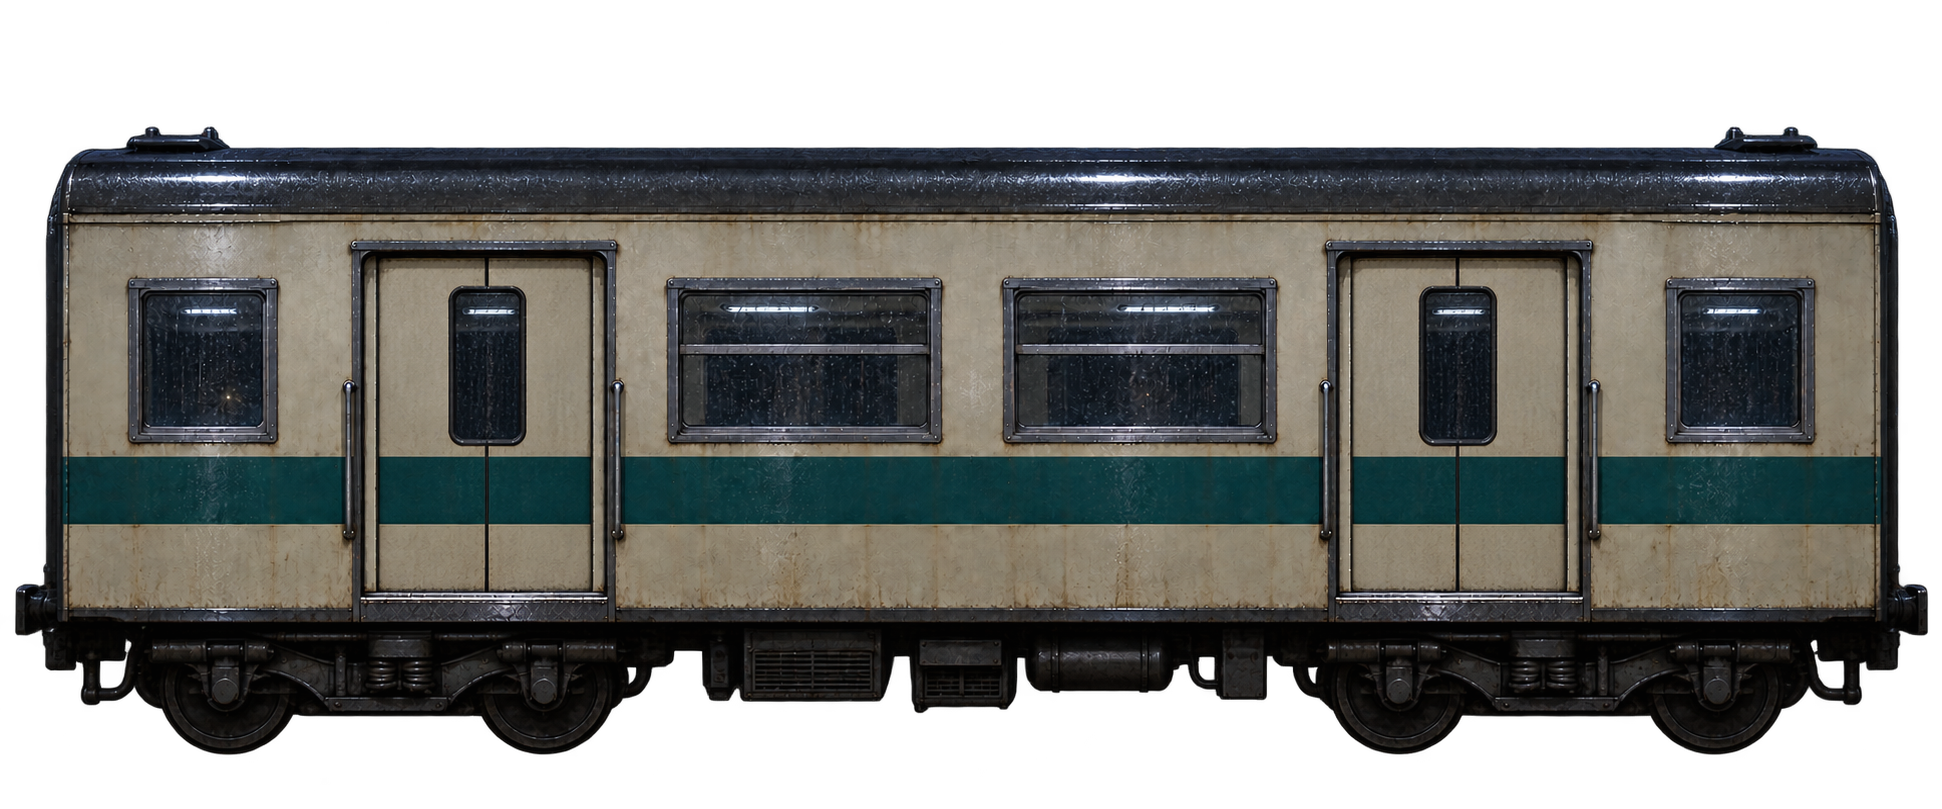
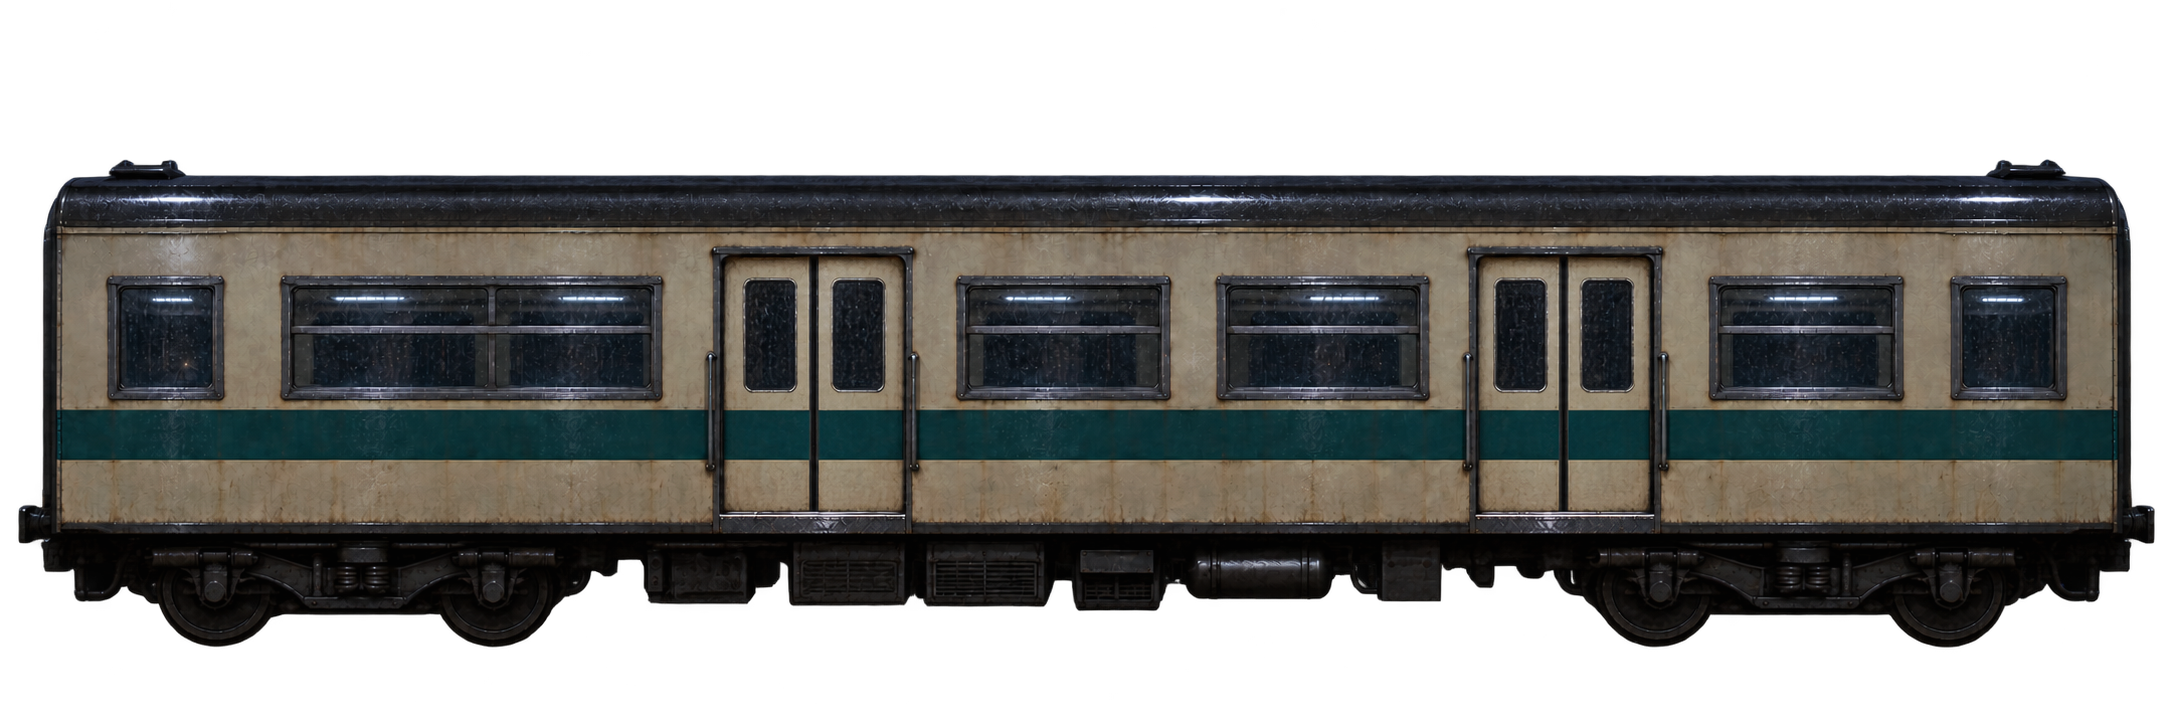
feat: 帰還列車の連結描写と持ち物画像を改善

diff --git a/src/remake/RemakeApp.tsx b/src/remake/RemakeApp.tsx
@@ -4,7 +4,8 @@ import { newState, reduce, restore, owns } from './model';
 import type { Action, Item, Room } from './model';
 import { World, availableViews } from './World';
 import type { Focus } from './World';
-import { FocusView, itemArt } from './FocusView';
+import { FocusView } from './FocusView';
+import { ItemImage } from './ItemImage';
 import { PhotoRecord } from './Photos';
 import { RecordingStrips } from './Recorder';
 import { ServiceRecordNote } from './ServiceRecords';
@@ -120,13 +121,13 @@ export default function RemakeApp() {
  <div className={'rm-stage ' + (focus === 'bag' ? 'rm-close' : '')}>{focus ? <><div className="rm-focus-backdrop" aria-hidden="true" inert>{world}</div><div className="rm-focused-scene"><FocusView focus={focus} s={s} dispatch={dispatch} say={say} selected={selected} onSelect={setSelected} close={close} inspect={inspect}/></div></> : world}</div>
  {!focus && views.length > 1 && <nav className="rm-world-nav" aria-label="周囲を見る"><button aria-label="左を見る" onClick={() => dispatch({ type: 'look', camera: (s.camera + views.length - 1) % views.length })}>‹</button><button aria-label="右を見る" onClick={() => dispatch({ type: 'look', camera: (s.camera + 1) % views.length })}>›</button></nav>}
  <div className="rm-top">{focus ? <button onClick={close} aria-label="前の場面へ戻る">〈 戻る</button> : <div><span className="rm-wordmark">帰線</span><span className="rm-area-name">{roomLabels[s.room]}</span></div>}<div><button onClick={() => setPanel('notes')}>記録</button><button onClick={() => setPanel('settings')} aria-label="設定と保存">⋯</button></div></div>
- {showSelected && <div className="rm-held-item">{itemArt[selected] && !['officeLock', 'recorder', 'ticket', 'reader'].includes(focus ?? '') && <img src={itemArt[selected]} alt={labels[selected]} draggable={false}/>}<button aria-label="選んだ持ち物を見る" onClick={() => inspect(documentFocus[selected] ?? 'item')}>見る</button></div>}
- <div className="rm-bottom"><div className="rm-inventory" aria-label="持ち物">{inv.map(item => <button key={item} className={selected === item ? 'selected' : ''} aria-pressed={selected === item} onClick={() => {
+ {showSelected && <div className="rm-held-item"><div className="rm-held-icon"><ItemImage item={selected} state={s}/></div><button aria-label="選んだ持ち物を見る" onClick={() => inspect(documentFocus[selected] ?? 'item')}>見る</button></div>}
+ <div className="rm-bottom"><div className="rm-inventory" aria-label="持ち物">{inv.map(item => <button key={item} aria-label={labels[item]} className={selected === item ? 'selected' : ''} aria-pressed={selected === item} onClick={() => {
                 if (selected === item)
                     inspect(documentFocus[item] ?? 'item');
                 else
                     setSelected(item);
-            }}>{labels[item]}</button>)}</div><button className="rm-target-toggle" aria-pressed={targets} onClick={() => setTargets(!targets)}>調べる場所</button></div>
+            }}><span className="rm-inventory-art"><ItemImage item={item} state={s}/></span><span>{labels[item]}</span></button>)}</div><button className="rm-target-toggle" aria-pressed={targets} onClick={() => setTargets(!targets)}>調べる場所</button></div>
  {message && <div className="rm-feedback" role="status">{message}</div>}
  {panel && <div ref={panelRef} className="rm-scrim" onClick={e => {
                 if (e.target === e.currentTarget)
@@ -151,6 +152,5 @@ export default function RemakeApp() {
                     }
                     e.target.value = '';
                 }}/><button onClick={() => { setS(seed()); setView({ focus: initialFocus, trail: [] }); setPanel(null); setSelected(null); }}>試作を初期状態へ戻す</button></> : <>{s.notes.length ? s.notes.map(n => <article key={n.id}>{n.id.startsWith('toolTrial') ? <TrialSheet cuts={n.values} annotate/> : n.id === 'recordings' ? <RecordingStrips offset={n.values[0]} heard={[n.values[1], n.values[2]]}/> : n.id === 'arrivalPhotos' ? <PhotoRecord order={n.values}/> : n.id === 'serviceRecords' ? <ServiceRecordNote ids={n.values}/> : <p>観察記録</p>}</article>) : <p>観察したものが、ここに残ります。</p>}</>}</section></div>}
- <span className="rm-dev-label">代表場面の検証 / {group === 'stopping' ? 'Q28–30' : group === 'ticket' ? 'Q31–32' : group === 'recorder' ? 'Q12' : group === 'counter' ? 'Q04–05' : '探索一巡'}</span>
  </main>;
 }

diff --git a/src/remake/NorthPlatform.tsx b/src/remake/NorthPlatform.tsx
@@ -17,37 +17,46 @@ function Carriage({ s }: {
     const target = stopAt(s.train.service, s.signals, s.locations.hood === 'signal', trace(s.route).end === 'O').firstDoor ?? 7;
     const progress = s.train.progress ?? 0;
     const first = s.train.position === 'stopped' ? s.train.firstDoor! : s.train.position === 'approaching' ? target - 28 * (1 - progress) ** 2 : (s.train.position === 'leaving' ? s.train.firstDoor! : target) + 28 * progress;
-    const extra = car.gap - 4, pxPerMetre = (1465 - 486) / 4;
-    const pieces = [{ a: 0, b: 920, extra }, { a: 920, b: 1020, extra: 0 }, { a: 1020, b: 1942, extra: 0 }];
-    const z = (y: number) => (600 - y) * 2.05 / 350 + .04;
-    return <Surface>{pieces.map(({ a, b, extra: shift }, i) => {
-            const xa = first + (1465 - a) / pxPerMetre + (i === 1 ? extra : shift), xb = first + (1465 - b) / pxPerMetre + shift;
-            const quad = [[xa, carriageSideY, z(0)], [xb, carriageSideY, z(0)], [xb, carriageSideY, z(809)], [xa, carriageSideY, z(809)]].map(([x, y, z]) => {
-                const p = platformPoint(x, y, z);
-                return [p.x, p.y] as [
-                    number,
-                    number
-                ];
-            }) as [
-                [
-                    number,
-                    number
-                ],
-                [
-                    number,
-                    number
-                ],
-                [
-                    number,
-                    number
-                ],
-                [
-                    number,
-                    number
-                ]
+    // Both boarding doors keep their physical separation inside a longer carriage.
+    // A second carriage is coupled at its west end.
+    const longGap = car.gap === 6;
+    const doorPixel = longGap ? 1561 : 1540;
+    const pxPerMetre = longGap ? (1561 - 687) / 6 : (1540 - 813) / 4;
+    const westEnd = first + (doorPixel - 2172) / pxPerMetre;
+    const z = (y: number) => (longGap ? 493 - y : 523 - y) * 2.05 / (longGap ? 245 : 280) + .04;
+    const projectPiece = (a: number, b: number, xa: number, xb: number, image: string, shade: number, key: string) => {
+        const quad = [[xa, carriageSideY, z(0)], [xb, carriageSideY, z(0)], [xb, carriageSideY, z(724)], [xa, carriageSideY, z(724)]].map(([x, y, z]) => {
+            const p = platformPoint(x, y, z);
+            return [p.x, p.y] as [
+                number,
+                number
             ];
-            return <div key={i} style={{ position: 'absolute', width: b - a, height: 809, transformOrigin: '0 0', transform: 'matrix3d(' + planeMatrix(b - a, 809, quad).join(',') + ')', overflow: 'hidden', filter: 'brightness(.64)' }}><img src={'/assets/remake/parts/return-car' + (s.train.position === 'stopped' ? '' : '-closed') + '.png'} style={{ position: 'absolute', left: -a, width: 1942, height: 809, maxWidth: 'none' }} alt=""/></div>;
-        })}</Surface>;
+        }) as [
+            [
+                number,
+                number
+            ],
+            [
+                number,
+                number
+            ],
+            [
+                number,
+                number
+            ],
+            [
+                number,
+                number
+            ]
+        ];
+        return <div key={key} style={{ position: 'absolute', width: b - a, height: 724, transformOrigin: '0 0', transform: 'matrix3d(' + planeMatrix(b - a, 724, quad).join(',') + ')', overflow: 'hidden', filter: `brightness(${shade})` }}><img src={image} style={{ position: 'absolute', left: -a, width: 2172, height: 724, maxWidth: 'none' }} alt=""/></div>;
+    };
+    const closed = '/assets/remake/parts/' + (longGap ? 'return-car-gap6-closed' : 'return-car-closed') + '.png';
+    const current = !longGap && s.train.position === 'stopped' ? '/assets/remake/parts/return-car.png' : closed;
+    return <Surface>
+        {projectPiece(0, 750, westEnd + .3, westEnd + .3 - 750 / pxPerMetre, closed, .58, 'coupled-car')}
+        {projectPiece(0, 2172, first + doorPixel / pxPerMetre, westEnd, current, .64, 'board-car')}
+    </Surface>;
 }
 export function NorthPlatform({ s, dispatch, inspect, selected, say }: {
     s: State;

diff --git a/src/remake/ItemImage.tsx b/src/remake/ItemImage.tsx
@@ -1,0 +1,39 @@
+import { ReceiptPaper } from './Receipt';
+import { TicketPaper } from './TicketBench';
+import type { Item, State, Ticket } from './model';
+const root = '/assets/remake/';
+const art: Partial<Record<Item, string>> = {
+    envelope: 'parts/seat-envelope.png',
+    officeKey: 'parts/office-key.png',
+    knob: 'parts/reel-cap.png',
+    punch: 'parts/punch-open.png',
+    lamp: 'parts/marker-lamp.png',
+    spareLamp: 'parts/marker-lamp.png',
+    counterRecords: 'parts/counter-folder.png',
+};
+const oldTicket: Ticket = { id: 1, holes: [], service: 1, back: false };
+export function ItemImage({ item, state }: {
+    item: Item;
+    state: State;
+}) {
+    if (art[item])
+        return <img className="rm-item-image" src={root + art[item]} alt="" draggable={false}/>;
+    if (item === 'photos')
+        return <img className="rm-item-image" src={root + 'parts/inventory-photos.png'} alt="" draggable={false}/>;
+    if (item === 'receipt')
+        return <ReceiptPaper />;
+    if (item === 'ownTicket' || item === 'ticket')
+        return <TicketPaper ticket={item === 'ownTicket' ? oldTicket : state.mounted ?? state.draft}/>;
+    if (item === 'paper')
+        return <img className="rm-item-image" src={root + 'parts/inventory-paper.png'} alt="" draggable={false}/>;
+    if (item === 'hood')
+        return <svg viewBox="0 0 100 100" aria-hidden="true"><image href={root + 'parts/shutter-blade.png'} x="2" y="22" width="88" height="29"/><image href={root + 'parts/shutter-blade.png'} x="10" y="49" width="88" height="29"/></svg>;
+    if (item === 'fragments')
+        return <svg viewBox="0 0 100 100" aria-hidden="true"><defs><pattern id="rm-fragment-paper" width="100" height="100" patternUnits="userSpaceOnUse"><image href={root + 'parts/photo-back.webp'} width="100" height="100"/></pattern></defs><path d="M9 23H49V55L40 51L31 59L21 54L9 62Z M53 32H90V79L79 72L69 80L63 73L53 77Z" fill="url(#rm-fragment-paper)" stroke="#77705e" strokeWidth="2"/></svg>;
+    const forms: Record<'hook' | 'pin' | 'support', string> = {
+        hook: 'M20 86L24 80L72 23Q79 14 87 19Q94 25 86 34L75 46L69 39L80 28L72 32L31 89Z',
+        pin: 'M13 47L79 43L90 49L79 54L13 53Z',
+        support: 'M14 79L49 20L87 79L78 84L49 37L23 84Z',
+    };
+    return <svg viewBox="0 0 100 100" aria-hidden="true"><path d={forms[item as keyof typeof forms]} fill="#7b7f78" stroke="#353b39" strokeWidth="3"/></svg>;
+}

diff --git a/src/remake/remake.css b/src/remake/remake.css
@@ -38,3 +38,4 @@
 
 .rm-photo-map-photo{min-width:0;display:flex;flex-direction:column;gap:10px}.rm-photo-browse{display:flex;justify-content:center;gap:12px}.rm-photo-browse button{font-size:13px!important}
 .rm-shutter,.rm-north{display:flex;flex-direction:column;align-items:center;width:100%;gap:12px;padding:74px 0 120px}.rm-shutter>.rm-photo,.rm-north>.rm-photo{width:min(100vw,calc((100dvh - 240px)*1.776));max-height:none}.rm-shutter .rm-document-controls,.rm-north .rm-document-controls{flex-wrap:wrap;justify-content:center;margin:0}.rm-shutter .rm-object-overlay [role=slider]{outline-offset:5px}@media(max-width:600px){.rm-shutter>.rm-photo,.rm-north>.rm-photo{width:100vw}.rm-shutter .rm-document-controls button,.rm-north .rm-document-controls button{font-size:12px!important}}
+.rm-inventory button{display:flex;flex-direction:column;align-items:center;justify-content:center;gap:2px;min-width:62px;min-height:62px!important;padding:4px 8px!important;font-size:11px!important;line-height:1.15}.rm-inventory-art,.rm-held-icon{display:grid;place-items:center;flex:0 0 auto;overflow:hidden}.rm-inventory-art{width:39px;height:38px}.rm-inventory-art>.rm-item-image,.rm-held-icon>.rm-item-image{width:100%;height:100%;object-fit:contain;filter:drop-shadow(0 1px 2px #0009)}.rm-inventory-art>svg,.rm-held-icon>svg{width:100%;height:100%;max-width:100%;max-height:100%;object-fit:contain}.rm-inventory-art .rm-service-paper,.rm-inventory-art .rm-receipt-paper,.rm-inventory-art .rm-ticket-paper,.rm-inventory-art .rm-trial-paper{width:100%;height:100%}.rm-inventory-art .rm-ticket-paper,.rm-held-icon .rm-ticket-paper{filter:drop-shadow(0 2px 2px #000b)}.rm-inventory-art .rm-ticket-paper{height:auto}.rm-item-photo-stack{position:relative;display:block;width:29px;height:31px;border:2px solid #d1c4a9;background:#ddd1b4;transform:rotate(-5deg);box-shadow:3px -3px 0 #aaa085,6px -6px 0 #645f52}.rm-item-photo-stack img{width:100%;height:100%;object-fit:cover}.rm-held-icon{width:72px;height:72px;filter:drop-shadow(0 4px 3px #0008)}.rm-held-icon .rm-item-photo-stack{transform:scale(1.5) rotate(-5deg)}@media(max-width:600px){.rm-inventory button{min-width:56px;min-height:57px!important;padding:3px 5px!important;font-size:10px!important}.rm-inventory-art{width:31px;height:31px}.rm-held-icon{width:50px;height:50px}}

diff --git a/src/remake/FocusView.tsx b/src/remake/FocusView.tsx
@@ -1,4 +1,5 @@
 import { Shutter } from './Shutter';
+import { ItemImage } from './ItemImage';
 import { ToolTrial, PunchGraphic } from './ToolTrial';
 import { Train } from './Train';
 import { Bag } from './Bag';
@@ -46,7 +47,7 @@ export function FocusView({ focus, s, dispatch, say, selected, onSelect, close, 
         case 'platformClock': return <Photo src="/assets/remake/platform/station.webp" view={[935, 207, 188, 195]} label="ホームの時計"><Clock minutes={23 * 60 + 17} transform="translate(1030 302) scale(.72)"/></Photo>;
         case 'officeLock': return <OfficeLock s={s} dispatch={dispatch} say={say} selected={selected} onSelect={onSelect} enter={() => { dispatch({ type: 'move', room: 'office', camera: 0 }); close(); }}/>;
         case 'paperView': return <div className="rm-hand-paper"><TicketPaper ticket={s.draft}/><button onClick={() => dispatch({ type: 'flipTicket' })}>裏返す</button></div>;
-        case 'item': return <div className="rm-hand-item">{selected === 'punch' ? <svg viewBox="0 0 1536 1024" aria-label="手元の鋏"><PunchGraphic tool={s.values.punchTool?.[0] ?? 1} transform="translate(0 0)"/></svg> : selected && itemArt[selected] && <img src={itemArt[selected]} alt="手元の持ち物"/>}</div>;
+        case 'item': return <div className="rm-hand-item">{selected === 'punch' ? <svg viewBox="0 0 1536 1024" aria-label="手元の鋏"><PunchGraphic tool={s.values.punchTool?.[0] ?? 1} transform="translate(0 0)"/></svg> : selected && (itemArt[selected] ? <img src={itemArt[selected]} alt="手元の持ち物"/> : <ItemImage item={selected} state={s}/>)}</div>;
         default: return null;
     }
 }

diff --git a/docs/remake/STOPPING-REVIEW.md b/docs/remake/STOPPING-REVIEW.md
@@ -14,7 +14,7 @@ KISEN/remake。通常導線では未到達の独立検査入口 `?remake=stoppin
 
 ## 写真・採否
 
-本番用に6素材を追加し、全71素材。built-in image_genを使用。正確な呼出プロンプトは `docs/remake/prompts/imagegen-calls.json`（121件）へ保存。
+本番用に更新した車両素材と持ち物画像を含め74素材とし、全74素材。built-in image_genを使用。正確な呼出プロンプトは `docs/remake/prompts/imagegen-calls.json`（121件）へ保存。
 
 |素材|採用UUID|
 |---|---|
@@ -22,15 +22,23 @@ KISEN/remake。通常導線では未到達の独立検査入口 `?remake=stoppin
 |signal/housing|d2cda9d3-692d-4d3c-b440-9bcfd33bff1c|
 |parts/shutter-blade|2375f3de-4b8b-4eff-88ca-2610c9736992|
 |parts/marker-lamp|ef3cb65a-99a4-4b2b-8c8e-5ed8b375963e|
-|parts/return-car|f9204ca9-0838-40cc-9936-ff12b2f07ad5|
-|parts/return-car-closed|14df9097-4e18-4e8e-942b-f9a61d48c052|
+|parts/return-car|f0b33e5b-fe9c-43f6-ad10-c12fd522fbfb|
+|parts/return-car-closed|45376324-c5b6-41ca-80ac-c71490726462|
 
 最初の北ホーム448e6ef6は俯角付きの極端な広角で車両の縦が傾いたため不採用。カメラを入口踊り場の水平視点へ変更し、幾何ガイドと背景を再生成した。最初の遮光器30554161と平面のつまみ描画も不採用。機械のつまみを写真へ追加した採用版に統一。原候補は生成領域に残り、レポジトリ内は現在採用のみ。
 
-車両画像は基準となる二扉中心486/1465px、敷居600pxを現場の4m間隔へ対応させる。6m間隔では中央の車体帯を広げ、扉自体の幅を変えない。画像と物理寸法の最終採点、拡大時の解像感にはなお改善余地がある。前景と踏み板は同じ背景の遮蔽で車輪を隠し、灯具は同じソケット位置へ描く。
+改訂した車両画像は基準となる二扉中心約813/1540px、敷居約523pxを現場の4m間隔へ対応させる。6m間隔の第5便は専用の約14mの閉扉車両写真を使う。扉や窓を伸ばさない。約12mの乗車車両に隣の一両を連結し、隣車は閉扉のまま。画像と物理寸法の最終採点、拡大時の解像感にはなお改善余地がある。前景と踏み板は同じ背景の遮蔽で車輪を隠し、灯具は同じソケット位置へ描く。
 
 ## 証拠と未完了
 
 `verification/2026-09-30-stopping/` に原ガイド・PC/タッチ画面。`stopping-car-first`、`stopping-initial`、`stopping-touch-footing` は修正前の記録。採用表示は `stopping-recovered-final`、`stopping-shutter-photo`、`stopping-touch-close-fixed` を参照。
 
 G1/G2/G3は全体未合格。経路は検査入口で一例を設定しており、Q27の現物レバー/レールの操作をまだ実装していない。便の同定資料、通常探索から灯具・覆いを得る中盤、北ホームへの通常導線、車内へ乗った後の終幕は未完成。切符受けは検査用の接写へ接続したが、北ホーム上の現物の配置と対応をまだ確定していない。入力後の暗い画面に文字だけで全編完成を装わない。
+
+### 連結編成とアイテム欄の追補
+
+最初のf9204ca9（開）/14df9097（閉）の一両約8mは写真として成立してもホームの実画面で短く見えた。採用した約12mの両状態に差し替え、隣に一両の閉扉車両を接続。Q29の二扉の座標と当たり判定は維持した。アイテム欄は全アイテムを画像つきにし、写真束e3f1a5c7と用紙束ef4b30e0を追加。紙片や未実装の道具の小画像は暫定表示であり、その実物を作る際に合わせ直す。
+
+元画像の接写品質では、手前座席レバーは元1672×941の全景を約2倍表示している。これ以上の単純拡大を新規対象へ広げない。全景と接写を別写真にする場合も、同じ実物として解像感と状態変化を照合する。封筒の重ね合わせは最終再審査項目。通行できる扉の開状態は完成時に確認する。
+
+第5便の初期合成では中央の窓が引き伸ばされ、写真上も不自然だったため不採用。専用閉扉写真 `parts/return-car-gap6-closed`（24cbffdd-e431-4483-949a-fe69ae52a286）に差し替えた。誤った扉間隔の便は停車できるが足場が不成立であり、両扉は閉じたまま。PC実画面で独立した三つの窓、二つの閉扉、前景との高さを確認。総74採用素材。短車両の初期案、伸ばした中央窓、最初の画面風つまみ等は最終配信素材から外している。

diff --git a/docs/remake/plan/05_PRODUCTION.md b/docs/remake/plan/05_PRODUCTION.md
@@ -75,3 +75,10 @@ React/TypeScript/Viteの既存基盤を候補として継続。Node/pnpmはmise.
 コミットは `feat: 車内の現物操作と状態差分を実装` 等の日本語Conventional Commit。節目は代表区間の合格と回帰確認。公開・pushは別の依頼範囲として扱う。
 
 最終報告は「実装した範囲」「現在状態と別解」「目視した対象」「初見評価の条件」「時間の実測」「未確認」を区別する。候補素材を参照と採用一覧へ照合し、決定版のみを本番へ残してから整理完了とする。
+
+
+### 画像の拡大率・重ね合わせの採用条件（2026-09-30）
+
+元の全景画像を写真として接写表示するとき、表示サイズ/元画素を計算して記録する。特に手前座席の接写は1672×941の全景を約2倍で表示しており、現状の上限に近い。今後の新たな操作対象・視覚証拠では、この倍率を安易に超えない。読めるべき傷・刻印・接触部が不足する場合は、同じ物・同じ状態・同じ照明を保つ接写用の高解像度写真を生成し、全景との位置と形を見比べる。既存の低解像度領域を単に伸ばした画像を高解像度素材とは数えない。
+
+状態差分と持ち物を重ねる際は、実表示倍率の全景と接写の両方で、輪郭の鋭さ、粒状感、露光、光の方向、影、奥行き、遮蔽を確認する。座席裏の封筒は現在ギリギリの品質という指摘を引き継ぐ。静止写真だけでなく取得前後・座席を戻す途中・保存再開でも一貫するか検査する。通行できる扉は、完成審査時に開状態が現物写真へ対応しているか確認する（既存導線で未修正の箇所あり）。

diff --git a/docs/remake/plan/04_SPACE_AND_INTERACTION.md b/docs/remake/plan/04_SPACE_AND_INTERACTION.md
@@ -105,3 +105,7 @@
 
 北ホーム本体のy=7〜10を維持し、北側の入口にx=5.5〜8.5/y=10〜12.5の小さなコンクリート踊り場を設ける。観測点は(7,12,1.65)、注視点(7,5,1.65)、1672×941、focal=560。基準柱x=0/y=6.7、灯具列y=7.65、踏み板はx=[6,8]/[10,12]、y=6.22〜7.1、z=.04。車両側面はy=6.22、扉の敷居z=.04。全景・接写・列車の投影はこの共通座標を使う。
 最初の(6.5,9.8,1.65)からの俯角付き広角は、試作の実画面で車両が強く歪んだため却下。写真を守るための建物追加はせず、既存通路に必要な小さな入口足場の範囲で観測点を後退した。
+
+### 帰還列車の連結構成（2026-09-30改訂）
+
+停車位置を規定するのは、乗る車両の二つの扉中心の間隔4mと敷居高さである。車両全長をその間隔へ縮めない。帰還編成は少なくとも二両とし、プレイヤーが乗る車両を約12m、隣の一両を連結位置で表示する。北ホームの固定カメラから、乗車対象の二扉と一部が画面内に続く隣の車両を同時に見る。第5便の6m間隔は約14mの別車両写真を用い、独立した三つの窓と扉を描く。窓や扉の画素を引き伸ばさない。乗車する二扉と踏み板の対応はQ29の座標で判定し、隣車の窓・扉は判定を増やさない。停止前は両車の扉を閉じ、停車後は対象車の二つの扉のみ開ける。連結端の素材・影・色・車輪の高さを実画面で照合する。
